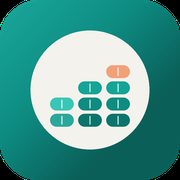
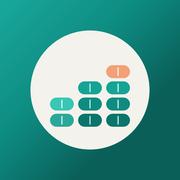
v3.9.1: แก้ไอคอนแอพมีมุมดำ
ผู้ใช้แจ้งว่าไอคอนแอพ (icon-192/512, apple-touch-icon) มีมุมสีดำน่าเกลียด
โผล่มาที่ 4 มุม

สาเหตุ: สคริปต์สร้างไอคอนตัดมุมให้โค้งมนด้วยพื้นหลังโปร่งใสตรงมุม แล้วแปลง
ภาพเป็น RGB ทีหลัง — ขั้นตอนแปลงนี้แค่ตัดช่อง alpha ทิ้งเฉยๆ ไม่ได้ผสมสี
พื้นหลังให้ก่อน มุมที่ตั้งใจให้โปร่งใสเลยกลายเป็นสีดำทึบแทน

แก้โดยตัดการมนมุมเองออกทั้งหมด ให้ไอคอนเป็นสี่เหลี่ยมเต็มพื้นที่ (ตรงตาม
แนวทาง PWA/OS อยู่แล้ว — launcher ตัดมุมให้เองตามแพลตฟอร์ม) อัปเดต
icon-192/512, apple-touch-icon (ชื่อไฟล์เดิม) — icon-maskable ไม่กระทบ
เพราะไม่เคยมนมุมอยู่แล้ว

ตรวจสอบแล้ว: tsc -b ผ่าน, npm test 80/80 ผ่าน, npm run build สำเร็จ,
ตรวจพิกเซลมุมแล้วตรงกับสี gradient พื้นหลังจริง ไม่มีสีดำหลงเหลือ

Claude-Session: https://claude.ai/code/session_017ScEEJXyYsYTMjkuNbqpj1

diff --git a/CHANGELOG.md b/CHANGELOG.md
@@ -7,6 +7,21 @@
 > และไม่มีเครื่องมือสำหรับสร้าง GitHub Release ในชุดเครื่องมือที่ใช้งานได้ จึงใช้ไฟล์นี้ + `VERSION`
 > เป็นแหล่งความจริงของเลขเวอร์ชันแทน จนกว่าจะแก้ข้อจำกัดนั้นได้
 
+## [3.9.1] - 2026-09-08
+
+### Fixed
+- **ไอคอนแอพมีมุมดำ** — ผู้ใช้แจ้งว่าไอคอนแอพ (icon-192/512, apple-touch-icon) มีมุมสีดำน่าเกลียด
+  โผล่มาที่ 4 มุม สาเหตุคือสคริปต์สร้างไอคอนตัดมุมให้โค้งมนด้วยการทำพื้นหลังโปร่งใสตรงมุม แล้วค่อย
+  แปลงภาพเป็น RGB (ไม่มี alpha) ทีหลัง — ขั้นตอนแปลงนี้แค่ตัดช่อง alpha ทิ้งเฉยๆ ไม่ได้ผสมสีพื้นหลัง
+  ให้ก่อน มุมที่ตั้งใจให้โปร่งใสเลยกลายเป็นสีดำ (0,0,0) ทึบแทน
+  - แก้โดยตัดการมนมุมเองออกทั้งหมด ให้ไอคอนเป็นสี่เหลี่ยมเต็มพื้นที่ (ตรงตามแนวทางทั่วไปของ
+    PWA/OS อยู่แล้ว — ตัวเครื่อง/launcher จะตัดมุมให้เองตามฟอร์แฟกต์ของแต่ละแพลตฟอร์ม การมนมุม
+    เองจากต้นทางเป็นการซ้ำซ้อนที่ไม่จำเป็นด้วย)
+  - อัปเดต icon-192/512, apple-touch-icon, icon-maskable-192/512 ทั้งชุด (ชื่อไฟล์เดิม) — ตรวจสอบ
+    แล้วว่าไม่มีพิกเซลสีดำที่มุมอีก (สีมุมตรงกับสี gradient ของพื้นหลังจริง)
+
+ตรวจสอบแล้ว: tsc -b ผ่าน, npm test 80/80 ผ่าน, npm run build สำเร็จ
+
 ## [3.9.0] - 2026-09-08
 
 ### Added
